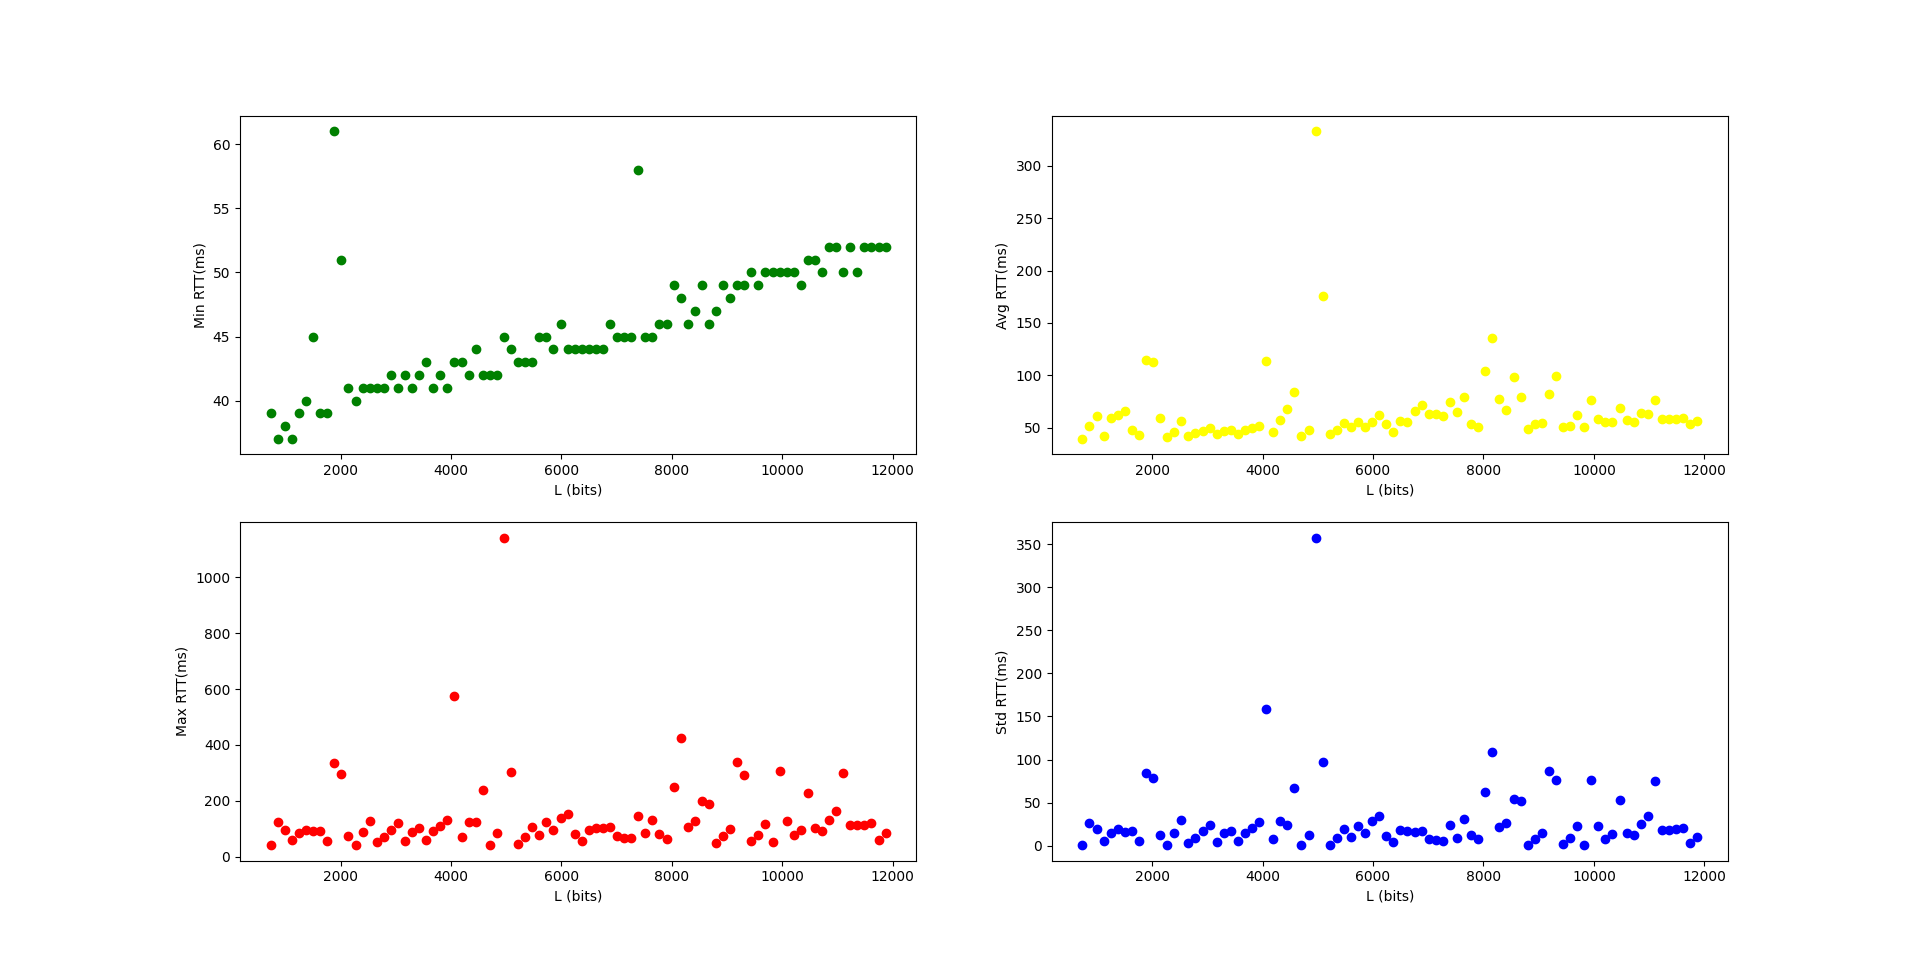
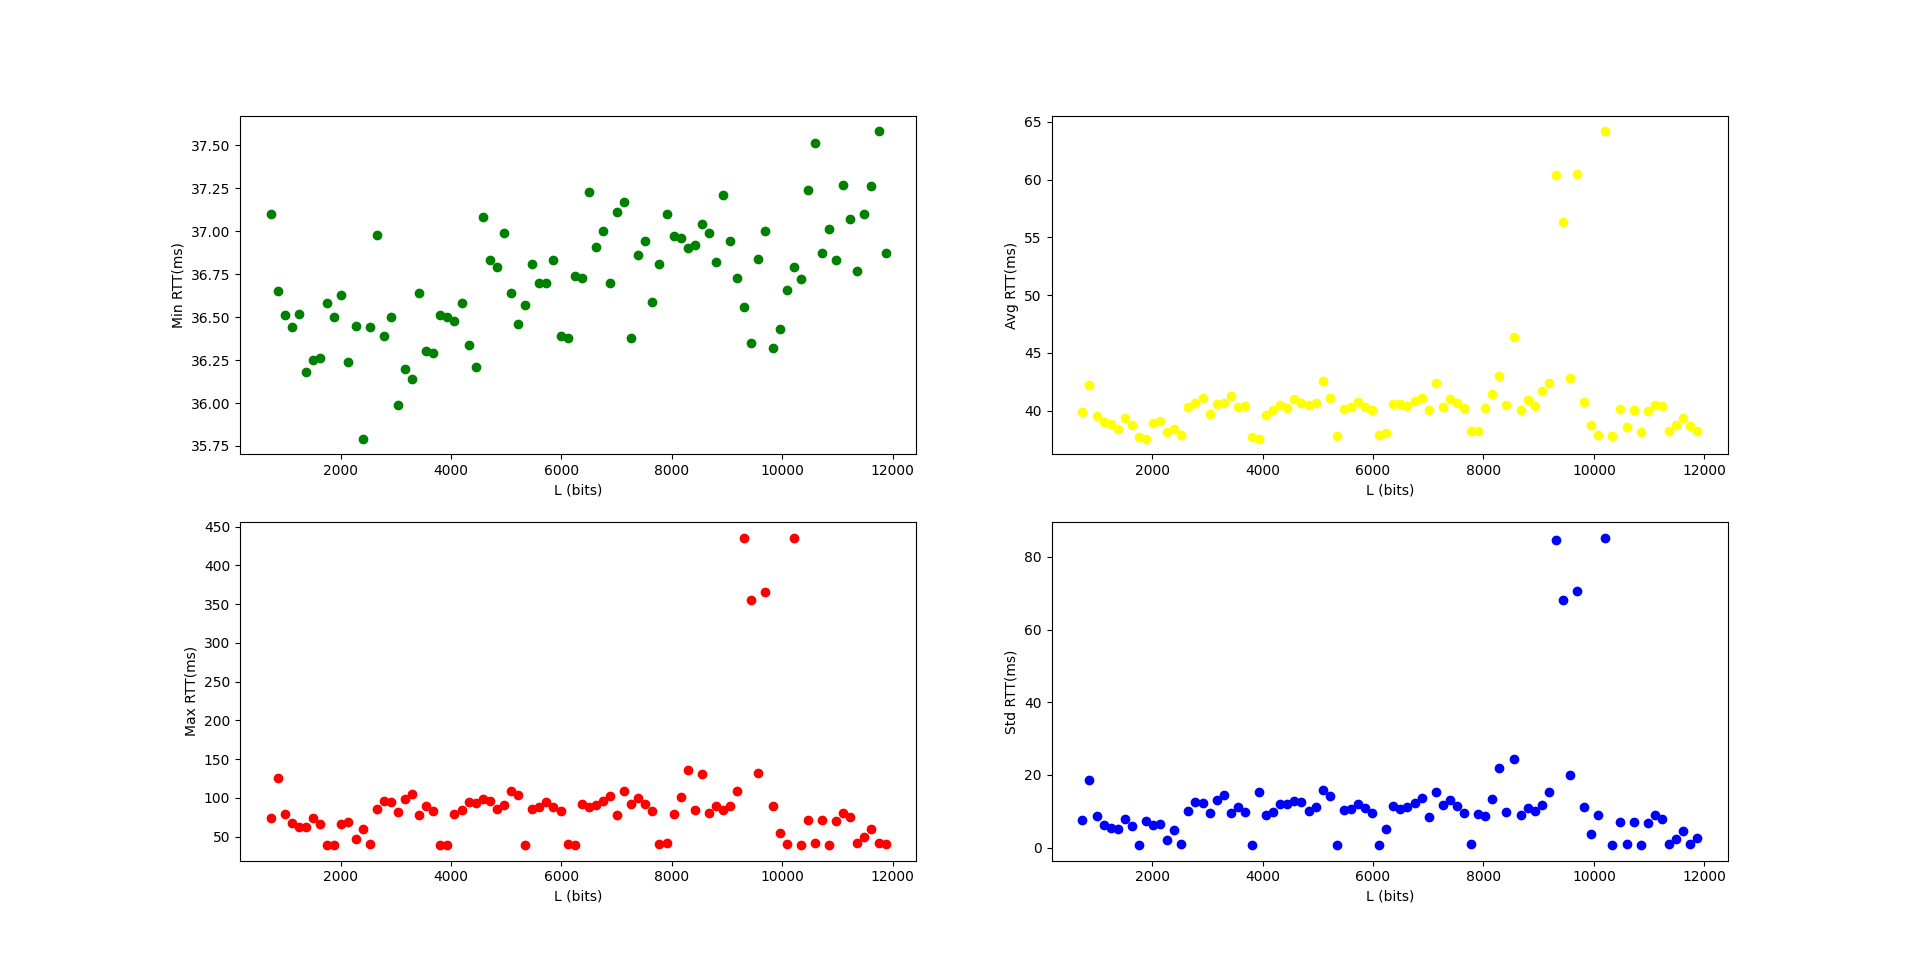
windows tests

diff --git a/src/netperf.py b/src/netperf.py
@@ -17,13 +17,14 @@ def detect_os():
 
 # running network performance
 if __name__ == "__main__":
-    host = input("Insert hostname, skip by pressing enter. The default hostname is \'lon.speedtest.clouvider.net\' \n--> ")
+    host = input(
+        "Insert hostname, skip by pressing enter. The default hostname is \'lon.speedtest.clouvider.net\' \n--> ")
     if host.strip() == "":
         host = "lon.speedtest.clouvider.net"
     ip = managecmd.get_ip(host)
     print(f"IP: {ip}")
     steps = list(range(64, 1472, 16))
-    
+
     os = detect_os()
     if os == "windows":
         overall_performances, actual_hops = windowsmain(ip, steps)
@@ -32,14 +33,15 @@ if __name__ == "__main__":
     else:
         print("Unknown operating system")
         exit(1)
-    
+
     # change steps from byte to all bit
     for i in range(len(steps)):
         steps[i] = (steps[i] + 28) * 8
-    
+
     calculation.plot_all(steps, overall_performances)
-    s, s_b, t = calculation.calculate_throughput(steps, overall_performances, actual_hops)
-    
-    print(f"Throughput: {s} bits/s")
-    print(f"Throughput Bottleneck: {s_b} bits/s")
-    print(f"Time of propagation: {t} ms")
+    s, s_b, t = calculation.calculate_throughput(
+        steps, overall_performances, actual_hops)
+
+    print(f"Throughput: {round(s, 2)} bits/s")
+    print(f"Throughput Bottleneck: {round(s_b, 2)} bits/s")
+    print(f"Time of propagation: {round(t*1000, 2)} ms")

diff --git a/src/windows.py b/src/windows.py
@@ -9,7 +9,7 @@ import calculation
 
 def route_info(ip: str):
     print("-------------Finding amount of hops to the host-------------")
-    count_hops = 64
+    count_hops = 30
     while count_hops > 0:
         try:
             ping(ip, n=1, ttl=count_hops, size=1)
@@ -65,18 +65,23 @@ def ping(ip, n, ttl, size):
     return run_command(['ping', '-n', str(n), '-i', str(ttl), '-l', str(size), ip])
 
 
+# psping command
+def psping(ip, n, size):
+    return run_command(['psping', '-n', str(n), '-i', '0', '-l', str(size), ip])
+
+
 # get stdev
 def get_stdev(out: str):
-    round_trip_times = re.findall(r"=(\d+)ms", out)
-    round_trip_times = list(map(int, round_trip_times))
+    round_trip_times = re.findall(r": (\d+\.\d+)ms", out)
+    round_trip_times = list(map(float, round_trip_times))
     stdev = statistics.pstdev(round_trip_times)
     return stdev
 
 
 # net performance
-def run_netperf(ip: str, k_packets=20, TimeToLive=64, l_packets=64, info=False):
+def run_netperf(ip: str, k_packets=20, l_packets=64):
 
-    ping_info = ping(ip, n=k_packets, ttl=TimeToLive, size=l_packets)
+    ping_info = psping(ip, n=k_packets, size=l_packets)
     rtt = get_rtt(ping_info)
     rtt.append(get_stdev(ping_info))
 

diff --git a/src/linux.py b/src/linux.py
@@ -7,7 +7,7 @@ import pingparsing as pp
 
 def route_info(ip: str, sudo):
     print("-------------Finding amount of hops to the host-------------")
-    count_hops = 64
+    count_hops = 30
     while count_hops > 0:
         try:
             ping(ip, n=1, ttl=count_hops, size=1, sudo=sudo)

diff --git a/Report.md b/Report.md
@@ -170,5 +170,4 @@ In this specific example the value of the throughputs are:
 
   $$ S_b = 1875758.6941092925 \: bits/s $$
 
-What the results show is that, in the same network for this specific hostname, windows performs better overall. This is probably achieved by some OS limitations in Linux.
-In any case we can see that the throughput is in the order of magnitude of tens of Mbit/s in optimal conditions, meaning that all the links in the connection have the same throughput and the packets queue time in each link is approximately _0s_. If there is a single link which has the lowest throughput among all of the links crossed, it works as a bottleneck limiting the thoughput (notice that this link as to be considered two times because the packets need to return through the same route).
+We can see that the throughput is in the order of magnitude of tens of Mbit/s in optimal conditions, meaning that all the links in the connection have the same throughput and the packets queue time in each link is approximately _0s_. If there is a single link which has the lowest throughput among all of the links crossed, it works as a bottleneck limiting the thoughput (notice that this link as to be considered two times because the packets need to return through the same route).
